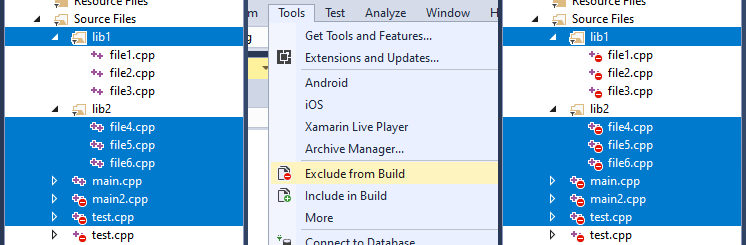
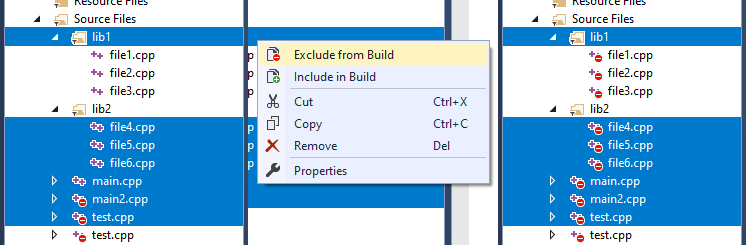
Update readme and preview image.

Changed region(s): [[0.3083, 0.0, 0.6783, 1.0], [0.37, 0.9714, 0.555, 1.0]]

diff --git a/README.md b/README.md
@@ -4,7 +4,7 @@
 This extension allows to exclude from build or include in build multiple **C**/**C++**/**C#**/**VB** files and directories with one click.
 
 1. Select directories and/or files you'd like to exclude or include
-2. Right-click the selection or go to menu **Tools**
+2. **Right-click** the selection or go to menu **Tools**
 3. Choose **Exclude from Build** or **Include in Build**
 
 ![Exclude From Build](images/preview.png)
